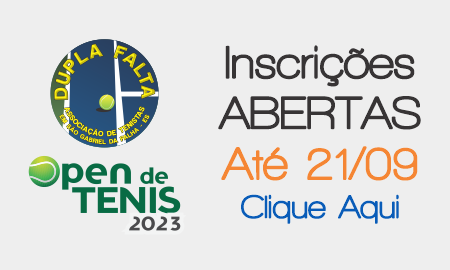
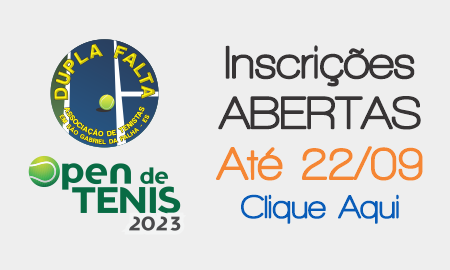
setembro

Changed region(s): [[0.4667, 0.5333, 0.9644, 0.6815]]

diff --git a/torneios/2023/interno-setembro/inscricao.html b/torneios/2023/interno-setembro/inscricao.html
@@ -113,22 +113,18 @@
 				<font face="Arial" size="2"> A partir de 45 anos</font><br><br>
 				</p>
 				<p align="center" style="margin-top: 0; margin-bottom: 0">
-				<font face="Arial" style="font-size: 12pt"><b>Dupla: <i>A </i></b></font>
-				<i><font face="Arial" size="2">- Associado + convidado -</font></i>
-				<font face="Arial" size="2">Formada por sorteio</font></p>
-				<p align="center" style="margin-top: 0; margin-bottom: 0">
+				<font face="Arial" style="font-size: 12pt"><b>Dupla: <i>A, </i></b></font>
 				<i><font face="Arial" style="font-size: 12pt"><b> 
-				B e C</b></font><font face="Arial" size="2"> - Somente Associados -</font></i>
-				<font face="Arial" size="2">Formada por sorteio</font></p>
+				B e C</b></font><font face="Arial" size="2"> - </font></i>
+				<font face="Arial" size="2">Formada na inscrição</font></p>
 				<p align="center" style="margin-top: 0; margin-bottom: 0"></p>
 				<p align="center" style="margin-top: 0; margin-bottom: 0">
 				&nbsp;</p>
 				<p align="center" style="margin-top: 0; margin-bottom: 0">
 				<b>
 				<font face="Arial" style="font-size: 12pt">Dupla Mista: </font>
-				<i><font face="Arial" size="3"> Classe única</font></i></b></p>
-				<p align="center" style="margin-top: 0; margin-bottom: 0">
-				<font face="Arial" size="2"> Somente Associados</font><br>&nbsp;</p>
+				<i><font face="Arial" size="3"> Classe única</font></i></b><font face="Arial" size="2"> 
+				- formada na inscrição</font><br>&nbsp;</p>
 				<p align="center" style="margin-top: 0; margin-bottom: 0">
 				<font face="Arial" style="font-size: 10pt; font-style:italic">Mínimo de 4 inscritos por classe ou 4 duplas</font></p>
 			</td>
@@ -138,12 +134,12 @@
 				<font face="Arial" style="font-size: 14pt; font-weight: 700">CLASSE FEMININA</font><br><br>
 				<font face="Arial" style="font-size: 12pt"><b>Simples: <i>1ª, 2ª 
 				e 3ª</i></b></font><br><br>
-				<font face="Arial" size="3"><b>Dupla: </b></font><i><b><font face="Arial" size="3">Classe única</font></b></i>
-				<font face="Arial" size="2">Somente Associadas - Formada por sorteio</font><br><br>
+				<font face="Arial" size="3"><b>Dupla: </b></font><b><i><font face="Arial" size="3">Classe única</font></i></b><font size="3"> </font>
+				<font face="Arial" size="2">- Formada por sorteio</font><br><br>
 				<font face="Arial" style="font-size: 12pt"><b>Dupla Mista:</b></font>
 				<i><b><font face="Arial" size="3"> Classe única</font></b></i>
-				<font face="Arial" size="2"> Associado(as) + Convidado(a) - Formada 
-				por sorteio</font><br><br>			
+				<font face="Arial" size="2"> - Formada 
+				na inscrição</font><br><br>			
 				<i><font face="Arial" style="font-size: 10pt">Mínimo de 4 inscritas por classe ou 4 duplas</font></i></p>
 			</td>
 		</tr>
@@ -163,7 +159,11 @@
 				<i>NÃO ASSOCIADOS</i></font><br><br>
 				<font face="Arial"><span style="font-size: 8pt">R$</span> <b>110,00</b> para 01 <font size="2">(uma)</font> Classe</font><br>
 				<font face="Arial"><br><span style="font-size: 8pt">R$</span> <b>
-				200,00</b> para 02 <font size="2">(duas)</font> Classes</font><br>
+				200,00</b> para 02 <font size="2">(duas)</font> Classes</font></p>
+				<p align="center" style="margin-top: 0; margin-bottom: 0; ">
+				&nbsp;</p>
+				<p align="center" style="margin-top: 0; margin-bottom: 0; ">
+				<font face="Arial"><span style="font-size: 8pt">R$</span> <b>270,00</b> para 03 <font size="2">(três)</font> Classes</font><br>
 				&nbsp;</p>
 			</td>
 		</tr>
@@ -234,7 +234,7 @@
 			<td bgcolor="#FFFFFF" colspan="2" height="200" style="border:medium none #999999; padding:2px">
 				<p align="center" style="margin-top: 0; margin-bottom: 0">
 				<font face="Arial" color="#1F2223" size="3">Após o depósito clique abaixo e informe o pagamento.</font><br><br>
-				<a href="https://api.whatsapp.com/send?phone=5527996133327&text=Comprovante de Inscrição no Torneio Interno - Setembro/2023" target="_blank">
+				<a href="https://api.whatsapp.com/send?phone=5527996133327&text=Comprovante de Inscrição no Dupla Falta Open - Setembro/2023" target="_blank">
 				<img border="0" src="https://duplafalta.com.br/granexopen/images/whatsapp-logo-1.png" width="60" height="60"></a><br><br>
 				<font face="Arial" color="#1F2223" size="3">A inscrição só será concretizada após confirmação de depósito.</font></p>
 			</td>
@@ -243,7 +243,8 @@
 		<tr>
 			<td width="100%" colspan="2" height="220" style="border-style:none; border-width:medium; padding:2px; " bgcolor="#EFEFEF">
 				<p align="center" style="margin-top: 0; margin-bottom: 0">
-				<font face="Arial" size="4">Data Limite para Inscrições: 21/09/2023 - Quinta-feira</font><br><br>
+				<font face="Arial" size="4">Data Limite para Inscrições: 22/09/2023 - 
+				Sexta-feira</font><br><br>
 				<iframe name="contagem" src="contagem/index.html" marginwidth="0" marginheight="0" scrolling="no" border="0" frameborder="0" width="440" height="80"></iframe><br><br>
 				<font face="Arial" size="4">Sorteio das Chaves dia 23/09/2023 - Sábado</font></p>
 			</td>

diff --git a/torneios/2023/interno-setembro/regulamento.html b/torneios/2023/interno-setembro/regulamento.html
@@ -75,7 +75,7 @@
 		<tr>
 			<td>
 				<p align="center">
-				<iframe name="regulamento" src="https://docs.google.com/document/d/e/2PACX-1vQP47nLa6W893VRMQikERFqyBtBEr6X1NO8lThK0TA0uQE27t7crgFa02ue_JZLz3YBQ8IAAXPUdFCs/pub?embedded=true" width="900" height="3300" marginwidth="0" marginheight="0" border="0" frameborder="0"></iframe>
+				<iframe name="regulamento" src="https://docs.google.com/document/d/e/2PACX-1vRWKY75taH9ngNJtePDMqwYvJInDXxB5nOM2uTG84HyyQqZpCZu7m0ZZK0mTOulfWHwp4UZ7NjRycZO/pub?embedded=true" width="900" height="3300" marginwidth="0" marginheight="0" border="0" frameborder="0"></iframe>
 			</td>
 		</tr>
 	</table>

diff --git a/torneios/2023/interno-setembro/contagem/index.html b/torneios/2023/interno-setembro/contagem/index.html
@@ -81,7 +81,7 @@
 		
 		<script>
 			// Informe a data final da contagem no formato $(".ccounter").ccountdown((ano, mês, dia, 'hora:minuto');
-			$(".ccounter").ccountdown(2023,09,21,'23:59:00');
+			$(".ccounter").ccountdown(2023,09,22,'23:59:00');
 		</script>
     		
 		<!-- FONTES DO GOOGLE : início -->
